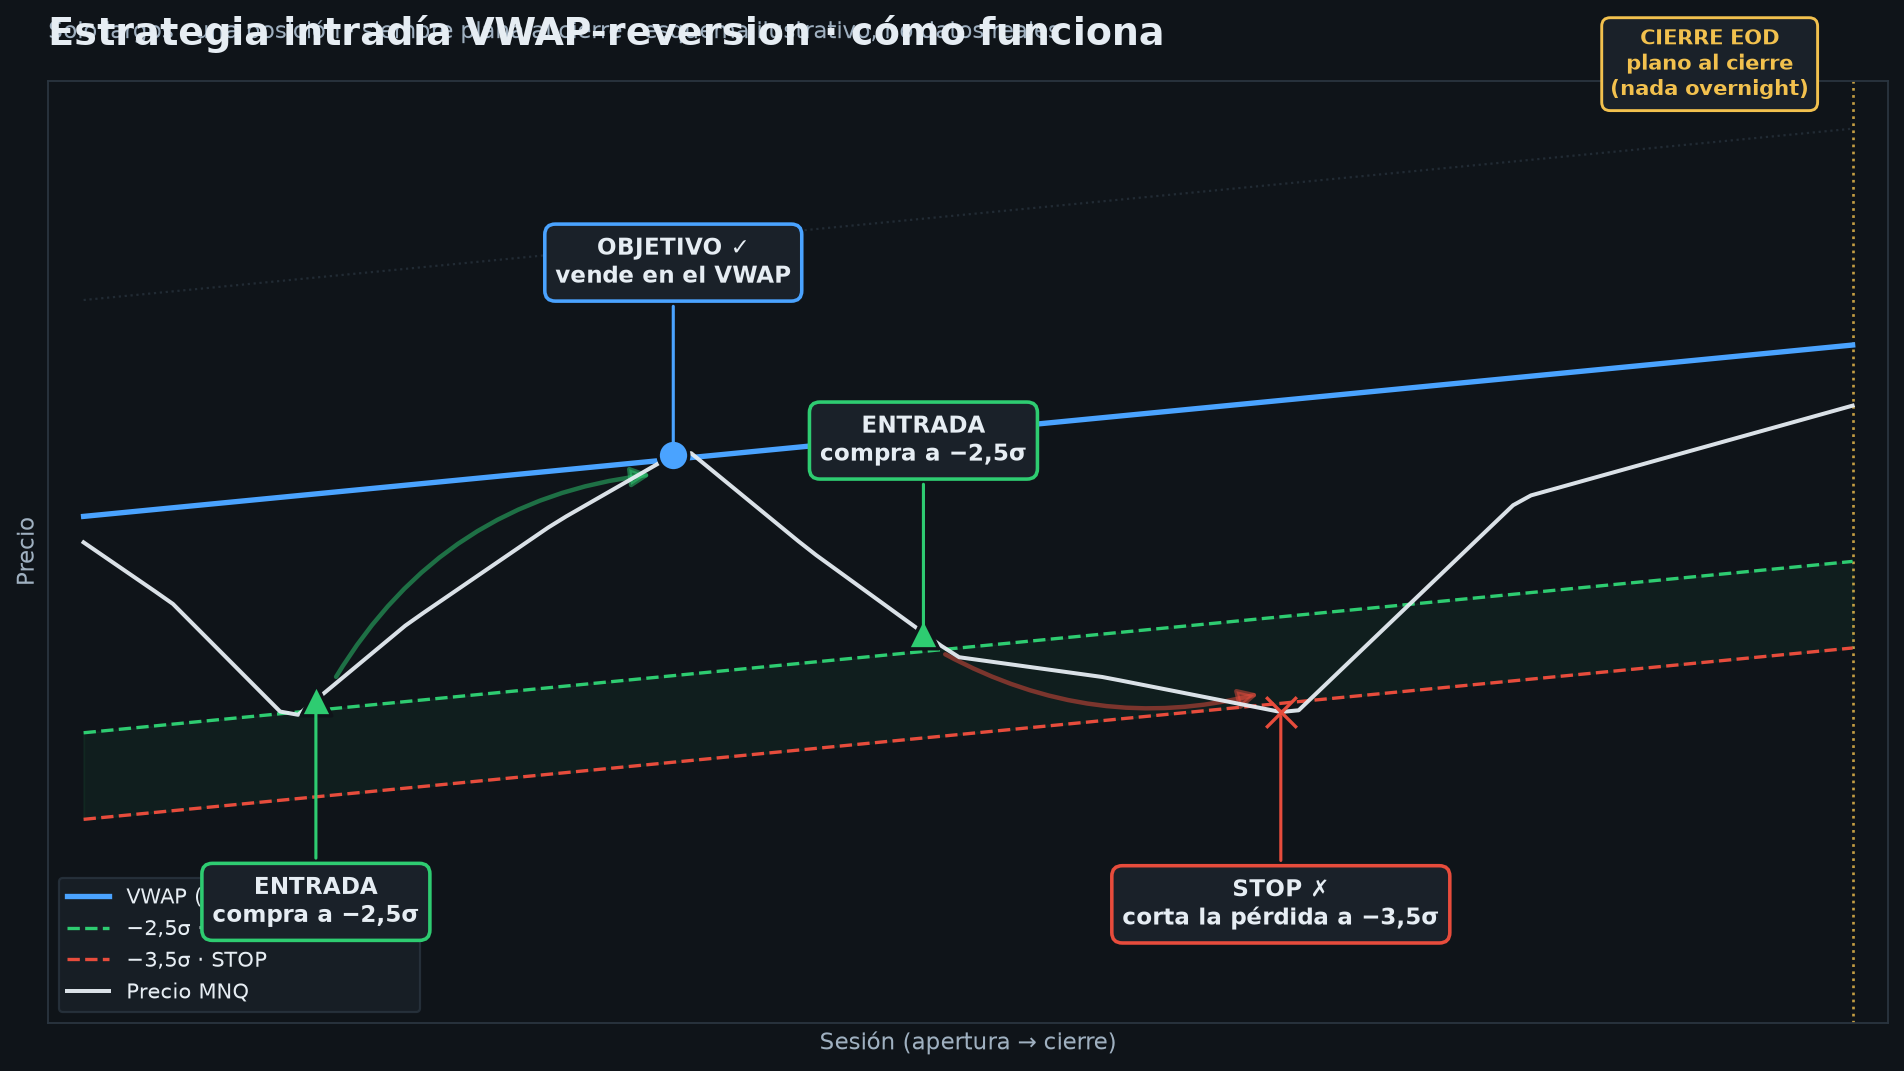
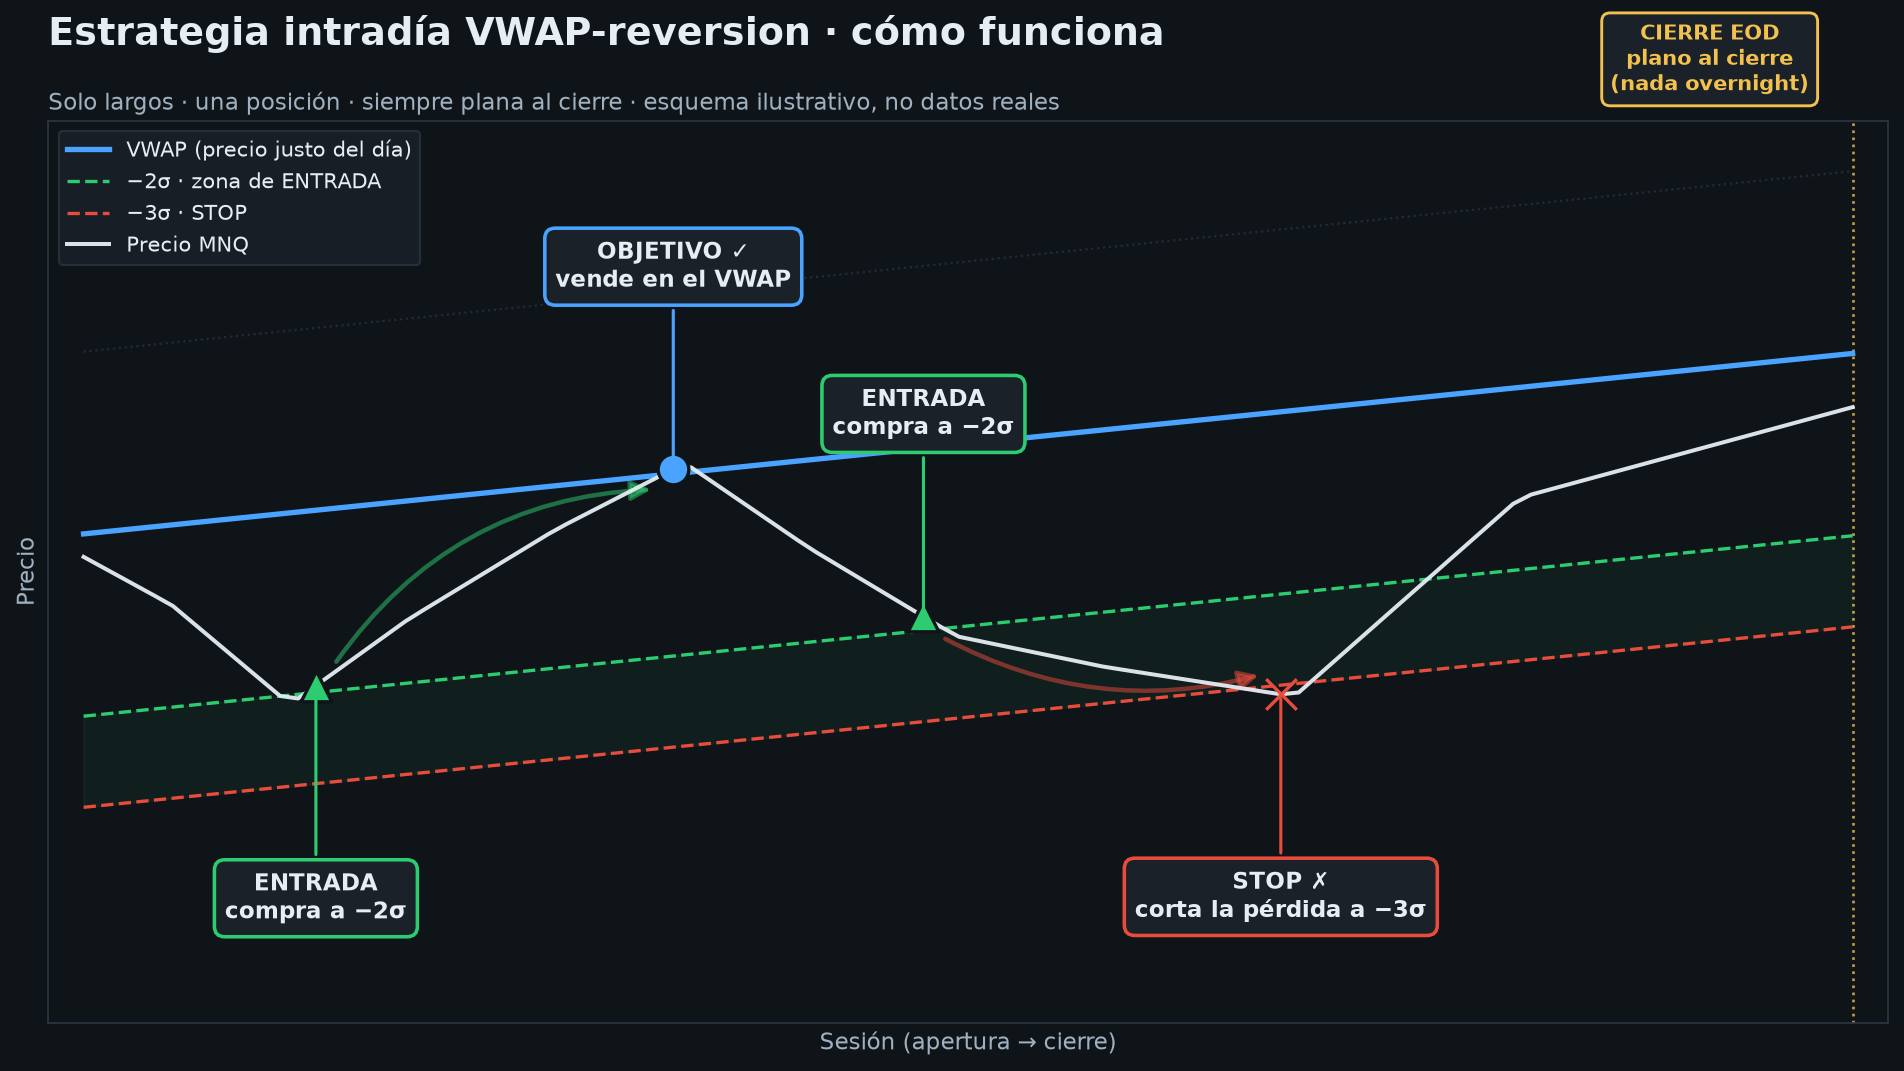
Cambiar entrada de -2,5 a -2,0 sigma: la anterior estaba dominada
La config que estaba en marcha se eligio por expectancy en R, criterio con
un defecto logico: R normaliza cada operacion por su riesgo, asi que en un
ano de vol alta los perdedores arriesgan mas dolares que los ganadores y un
R medio positivo puede perder dinero. Paso: 2022 perdio 1.028$ con R +0,054.

Al reevaluar la misma rejilla puntuando en dinero, -2,5 sigma resulta la
PEOR de las tres, no un compromiso riesgo/beneficio: menos beneficio Y mas
drawdown.

  -2,5 sigma: +12.173$  DD -41,98R  6/7 anos  PF 1,15  1.911 ops
  -2,0 sigma: +25.816$  DD -25,31R  7/7 anos  PF 1,23  2.908 ops

-2,0 gana en los 7 anos OOS por separado, y con ejecucion mala (4 ticks)
sigue batiendo a -2,5 con ejecucion buena. Efecto practico: el capital
minimo baja de ~14.000$ a ~8.000$.

No se eligio -1,5 sigma pese a dar mas (+34.710$): esta en el borde del
rango probado, su DD en R es peor (-31,78) y lo premia un criterio que
favorece operar mas.

Ademas:
- Paper-trading reiniciado a 0 ops. Las 23 ops de -2,5 pasan a historico:
  no son evidencia de fill-realism para la config nueva. Se conserva lo que
  si demostraron (infraestructura, stops a -1R) y lo que no.
- Diagrama regenerado; ahora lee los niveles de config_vwap.json en vez de
  tenerlos hardcodeados, y arreglada la superposicion titulo/subtitulo y la
  leyenda tapada.
- Suelo de capital y avisos honestos recalculados.

diff --git a/resumen_estrategia_vwap.html b/resumen_estrategia_vwap.html
@@ -47,7 +47,7 @@
 <body>
 <div class="wrap">
 
-  <span class="pill">PAPER-TRADING EN MARCHA · sin dinero real</span>
+  <span class="pill">PAPER-TRADING REINICIADO EL 26-JUL-2026 · sin dinero real</span>
   <h1>Estrategia de trading intradía</h1>
   <p class="sub">VWAP-reversion sobre micro-futuro del Nasdaq (MNQ)</p>
 
@@ -56,13 +56,13 @@
     <p>Reversión a la media <b>intradía</b>: cuando el precio se aleja demasiado de su valor
     "justo" del día (el <b>VWAP</b>, precio medio ponderado por volumen), apuesta a que volverá.
     Solo posiciones largas, una a la vez, y <b>siempre plana al cierre</b> (intradía puro).</p>
-    <div class="rule"><b>Entrada</b><span>el precio cae a <b>−2,5σ</b> por debajo del VWAP → compra</span></div>
+    <div class="rule"><b>Entrada</b><span>el precio cae a <b>−2,0σ</b> por debajo del VWAP → compra</span></div>
     <div class="rule"><b>Objetivo</b><span>el precio <b>vuelve al VWAP</b> → vende con beneficio</span></div>
-    <div class="rule"><b>Stop</b><span>baja <b>1σ más</b> (a −3,5σ) → corta la pérdida</span></div>
+    <div class="rule"><b>Stop</b><span>baja <b>1σ más</b> (a −3,0σ) → corta la pérdida</span></div>
     <div class="rule"><b>Cierre EOD</b><span>al final de la sesión se liquida sí o sí (nada overnight)</span></div>
     <p class="muted" style="margin:.6rem 0 0; font-size:.86rem">σ = volatilidad del día medida sobre la marcha.</p>
     <figure style="margin:1.1rem 0 0">
-      <img src="diagrama_vwap.png" alt="Diagrama de la estrategia VWAP-reversion: entrada a −2,5σ, objetivo en el VWAP, stop a −3,5σ y cierre EOD"
+      <img src="diagrama_vwap.png" alt="Diagrama de la estrategia VWAP-reversion: entrada a −2,0σ, objetivo en el VWAP, stop a −3,0σ y cierre EOD"
            style="width:100%; height:auto; display:block; border:1px solid var(--line); border-radius:10px">
       <figcaption class="muted" style="margin:.5rem 0 0; font-size:.82rem; text-align:center">
         Esquema ilustrativo (no datos reales): una operación ganadora (vuelve al VWAP) y una perdedora (salta el stop).</figcaption>
@@ -82,80 +82,90 @@
     <p>16 años de datos reales (Databento, 2010–2026). Método honesto: configuración elegida
     <b>solo con 2010–2019</b> y medida en <b>2020–2026 intactos</b>.</p>
     <div class="grid2">
-      <div class="kpi"><div class="n ok">6/7</div><div class="l">años out-of-sample positivos <span style="font-size:.9em">en dinero</span></div></div>
-      <div class="kpi"><div class="n">+0,184R</div><div class="l">expectancy por operación</div></div>
-      <div class="kpi"><div class="n">1,15</div><div class="l">profit factor</div></div>
-      <div class="kpi"><div class="n">1,27</div><div class="l">Sharpe diario <span style="font-size:.9em">(comisión real 0,52&nbsp;$/lado)</span></div></div>
+      <div class="kpi"><div class="n ok">7/7</div><div class="l">años out-of-sample positivos <span style="font-size:.9em">en dinero</span></div></div>
+      <div class="kpi"><div class="n">+0,216R</div><div class="l">expectancy por operación</div></div>
+      <div class="kpi"><div class="n">1,23</div><div class="l">profit factor</div></div>
+      <div class="kpi"><div class="n">2,08</div><div class="l">Sharpe diario <span style="font-size:.9em">(comisión real 0,52&nbsp;$/lado)</span></div></div>
     </div>
-    <p class="muted" style="margin:.7rem 0 0; font-size:.88rem">1.911 operaciones out-of-sample · 35% de aciertos · stress-test: aguanta hasta 4 ticks de slippage + comisiones altas sin perder el edge.</p>
+    <p class="muted" style="margin:.7rem 0 0; font-size:.88rem">2.908 operaciones out-of-sample · 38% de aciertos · +25.816&nbsp;$ con 1 MNQ · stress-test: rentable en los 15 puntos de la rejilla de costes (0-4 ticks de slippage × comisión 0,35/0,52/0,75&nbsp;$); incluso a 4 ticks mantiene PF 1,14.</p>
+    <p class="muted" style="margin:.4rem 0 0; font-size:.88rem">El in-sample (+0,168R) es <b>peor</b> que el out-of-sample (+0,216R), que es la señal que uno quiere ver: no hay indicio de sobreajuste.</p>
 
     <p style="margin:1rem 0 .3rem"><b>Año a año, con 1 MNQ:</b></p>
     <table>
-      <tr><th>Año</th><th>Expectancy</th><th>P&amp;L</th><th>Ops</th></tr>
-      <tr><td>2020</td><td>+0,089 R</td><td class="ok">+1.392 $</td><td>285</td></tr>
-      <tr><td>2021</td><td>+0,194 R</td><td class="ok">+2.484 $</td><td>290</td></tr>
-      <tr><td>2022</td><td>+0,054 R</td><td class="bad">−1.028 $</td><td>359</td></tr>
-      <tr><td>2023</td><td>+0,342 R</td><td class="ok">+3.042 $</td><td>260</td></tr>
-      <tr><td>2024</td><td>+0,163 R</td><td class="ok">+1.460 $</td><td>315</td></tr>
-      <tr><td>2025</td><td>+0,291 R</td><td class="ok">+2.924 $</td><td>289</td></tr>
-      <tr><td>2026</td><td>+0,224 R</td><td class="ok">+1.899 $</td><td>113</td></tr>
+      <tr><th>Año</th><th>P&amp;L</th><th>Ops</th></tr>
+      <tr><td>2020</td><td class="ok">+4.694 $</td><td>463</td></tr>
+      <tr><td>2021</td><td class="ok">+2.543 $</td><td>434</td></tr>
+      <tr><td>2022</td><td class="ok">+310 $</td><td>502</td></tr>
+      <tr><td>2023</td><td class="ok">+4.070 $</td><td>429</td></tr>
+      <tr><td>2024</td><td class="ok">+4.908 $</td><td>468</td></tr>
+      <tr><td>2025</td><td class="ok">+7.387 $</td><td>442</td></tr>
+      <tr><td>2026</td><td class="ok">+1.905 $</td><td>170</td></tr>
     </table>
 
     <div class="warn" style="margin-top:.9rem">
-      <b>Corrección importante (26-jul-2026):</b> antes se publicaba aquí "<b>7/7 años positivos</b>".
-      Es cierto <b>en expectancy R</b> —los siete años dan R medio positivo— pero <b>no en dinero</b>:
-      <b>2022 perdió 1.028&nbsp;$</b> con 1 MNQ pese a un R medio de +0,054. Motivo: R normaliza cada
-      operación por su propio riesgo, y en un año de volatilidad alta los perdedores arriesgan más
-      dólares que los ganadores, así que un R medio positivo puede perder dinero. En dinero son
-      <b>6/7</b>. El script de validación puntuaba por expectancy R y de ahí salió el titular.
+      <b>Se cambió la configuración el 26-jul-2026, y el motivo importa.</b>
+      Hasta esa fecha se entraba a <b>−2,5σ</b>, una configuración elegida por su <b>expectancy en R</b>
+      (beneficio medio dividido por el riesgo de cada operación). Ese criterio tiene un defecto lógico:
+      R normaliza cada operación por su propio riesgo, así que en un año de volatilidad alta los
+      perdedores arriesgan más dólares que los ganadores y <b>un R medio positivo puede perder dinero</b>.
+      Pasó de verdad: con −2,5σ, <b>2022 perdió 1.028&nbsp;$</b> pese a un R medio de +0,054.
+      <ul style="margin:.6rem 0 0">
+        <li>Al reevaluar la misma rejilla <b>puntuando en dinero</b>, la configuración que estaba en
+        marcha resultó ser la <b>peor de las tres</b> — no un compromiso riesgo/beneficio, sino dominada:
+        <b>menos beneficio y más drawdown</b>.</li>
+        <li>−2,5σ daba +12.173&nbsp;$ con un drawdown de −41,98&nbsp;R y 6/7 años positivos.
+        <b>−2,0σ da +25.816&nbsp;$ con −25,31&nbsp;R y 7/7</b>, y gana en los siete años por separado.</li>
+        <li>Efecto práctico: el <b>capital mínimo baja de ~14.000&nbsp;$ a ~8.000&nbsp;$</b>, porque el
+        drawdown esperado es mucho menor.</li>
+      </ul>
     </div>
-    <p class="muted" style="margin:.7rem 0 0; font-size:.82rem">Las cifras de esta sección se
-      <b>reverificaron el 25-jul-2026</b> reejecutando la validación completa (antes se publicaba
-      +0,194R / PF&nbsp;1,16, error de transcripción) y el desglose anual en dinero se añadió el
-      <b>26-jul-2026</b>. El edge sigue siendo real pero es fino: <b>σ&nbsp;=&nbsp;1,68R</b> por operación
-      sobre un edge de 0,184R, así que harían falta <b>~323 operaciones</b> para distinguirlo de cero
-      al 95&nbsp;% de confianza.</p>
+    <p class="muted" style="margin:.7rem 0 0; font-size:.82rem">
+      <b>No se eligió −1,5σ</b>, que daba aún más dinero (+34.710&nbsp;$): está en el <b>borde</b> del
+      rango probado, así que no se sabe si es el óptimo o solo el extremo, su drawdown en R es peor
+      (−31,78) y lo premia un criterio que favorece estructuralmente operar más. Elegirla por su
+      resultado fuera de muestra habría sido <i>data snooping</i>.
+      El edge sigue siendo real pero fino: <b>σ&nbsp;=&nbsp;1,62R</b> por operación sobre un edge de
+      0,216R, así que harían falta <b>~215 operaciones</b> para distinguirlo de cero al 95&nbsp;% de
+      confianza. Cifras reverificadas reejecutando la validación completa.</p>
   </div>
 
   <div class="card">
-    <h2><span class="ico">🧪</span>Resultados en vivo (papel)</h2>
-    <p class="muted" style="margin:.1rem 0 .8rem; font-size:.9rem">
-      Primeras <b>6 semanas</b> de paper-trading · 15-jun → 24-jul&nbsp;2026 · 30 sesiones de mercado ·
-      dinero simulado, 1 contrato MNQ. <span class="muted">Datos a 25-jul-2026.</span></p>
-    <div class="grid2">
-      <div class="kpi"><div class="n ok">+1.766&nbsp;$</div><div class="l">P&amp;L acumulado (1 MNQ)</div></div>
-      <div class="kpi"><div class="n">23</div><div class="l">operaciones en 11 sesiones</div></div>
-      <div class="kpi"><div class="n">9/11</div><div class="l">sesiones con operaciones en verde</div></div>
-      <div class="kpi"><div class="n">−390&nbsp;$</div><div class="l">peor bajón hasta ahora</div></div>
+    <h2><span class="ico">🧪</span>Paper-trading: contador a cero</h2>
+    <div class="warn" style="margin:.2rem 0 1rem">
+      <b>El cambio de configuración del 26-jul-2026 reinicia el paper-trading.</b>
+      Las <b>23 operaciones</b> acumuladas entre el 15-jun y el 24-jul se hicieron con la
+      configuración antigua (−2,5σ) y <b>no son evidencia</b> de que la nueva se ejecute bien en vivo.
+      Quedan archivadas como histórico, pero el contador vuelve a <b>0 operaciones</b>.
     </div>
 
-    <table style="margin-top:1rem">
-      <tr><th>Métrica</th><th>Papel (23 ops)</th><th>Backtest (1.911 ops)</th></tr>
-      <tr><td>Win rate</td><td class="ok">47,8 %</td><td>35,0 %</td></tr>
-      <tr><td>Expectancy por operación</td><td class="ok">+0,61 R</td><td>+0,184 R</td></tr>
-      <tr><td>Profit factor</td><td class="ok">2,04</td><td>1,15</td></tr>
-      <tr><td>Drawdown máximo</td><td>−390 $</td><td>−4.507 $ <span class="muted">(−41,98 R)</span></td></tr>
-    </table>
-
-    <p style="margin:.9rem 0 .3rem"><b>Qué funciona ya:</b></p>
+    <p style="margin:.2rem 0 .3rem"><b>Qué dejó demostrado la fase anterior</b> —esto sí se conserva,
+      porque es sobre la <i>fontanería</i>, no sobre la configuración:</p>
     <ul style="margin-top:.2rem">
-      <li>La <b>infraestructura</b>: 30 de 30 días operativos ejecutados, 85 comprobaciones diarias. Solo se perdió una sesión entera (18-jun, con TWS cerrado).</li>
-      <li>Los <b>stops</b> se cierran donde deben: los 12 stops han salido todos entre −1,00R y −1,01R, sin pérdidas fantasma.</li>
-      <li>Las <b>salidas por objetivo</b> (vuelta al VWAP) aportan +2.548&nbsp;$; los cierres de fin de sesión, +911&nbsp;$.</li>
+      <li>La <b>infraestructura funciona</b>: 30 de 30 días operativos ejecutados, ~85 comprobaciones
+      diarias. Solo se perdió una sesión entera (18-jun, con TWS cerrado).</li>
+      <li>Los <b>stops se cierran donde deben</b>: los 12 stops salieron todos entre −1,00R y −1,01R,
+      sin pérdidas fantasma. Ese era el punto crítico y quedó resuelto.</li>
+      <li>Se vio el <b>patrón de riesgo real</b>: el 15-jul encadenó <b>3 stops seguidos</b> antes de
+      acertar el cuarto. En un día de caída sostenida, una estrategia de reversión solo-largos come
+      stops en cadena.</li>
     </ul>
 
-    <div class="warn" style="margin-top:1rem">
-      <b>Va por encima de lo esperado, y eso todavía no significa nada.</b>
-      <ul style="margin:.5rem 0 0">
-        <li><b>23 operaciones no validan nada.</b> El backtest necesitó 1.911 para afirmar algo. Ir mejor que la expectativa con esta muestra es suerte, no confirmación.</li>
-        <li><b>Una sola operación aporta el 37 % del beneficio</b> (+655&nbsp;$ el 17-jun). Sin ella quedan +1.111&nbsp;$ y la expectancy cae de +0,61R a <b>+0,34R</b>.</li>
-        <li><b>El mal tramo aún no ha llegado:</b> −390&nbsp;$ de bajón frente a los −4.507&nbsp;$ que da el histórico —y frente a los ~−6.300&nbsp;$ que costaría ese mismo bajón al riesgo por operación de hoy (ver abajo). El sistema no ha sido puesto a prueba de verdad.</li>
-        <li><b>Sí se ha visto el patrón de riesgo:</b> el 15-jul encadenó <b>3 stops seguidos</b> antes de acertar el cuarto. En un día de caída sostenida, una estrategia de reversión solo-largos come stops en cadena.</li>
-      </ul>
-    </div>
-    <p class="muted" style="margin:.7rem 0 0; font-size:.86rem">
-      Conclusión: la mecánica funciona y los números no contradicen el backtest, pero falta muestra.
-      El plan sigue igual — dejarlo correr hasta 30-50 operaciones antes de plantearse fondear.</p>
+    <p style="margin:.9rem 0 .3rem"><b>Y qué no demostró:</b></p>
+    <ul style="margin-top:.2rem">
+      <li>El resultado (+1.766&nbsp;$, +0,61R en 23 ops) iba <b>muy por encima</b> de la expectativa del
+      backtest. Con esa muestra eso es <b>suerte, no confirmación</b>: una sola operación aportaba el
+      37&nbsp;% del beneficio.</li>
+      <li>El <b>mal tramo no llegó</b>: −390&nbsp;$ de bajón frente a los miles que da el histórico.
+      El sistema nunca fue puesto a prueba de verdad.</li>
+    </ul>
+
+    <p class="muted" style="margin:.9rem 0 0; font-size:.86rem">
+      Como comprobación, se replicó la configuración nueva sobre esas mismas 28 sesiones con velas
+      descargadas a posteriori: da +1.569&nbsp;$ frente a los +1.484&nbsp;$ de la antigua sobre el mismo
+      tramo. Pero la diferencia entre ambas <b>no es estadísticamente distinguible</b> con tan pocas
+      operaciones (t&nbsp;=&nbsp;0,48), y sobre todo <b>eso es un backtest, no paper-trading</b>: no se
+      envió ninguna orden, así que no dice nada sobre si las órdenes se llenan en vivo. Por eso el
+      contador empieza de cero y no se hereda nada.</p>
   </div>
 
   <div class="card">
@@ -200,11 +210,12 @@
     <h2><span class="ico">🗺</span>En qué fase estamos</h2>
     <table>
       <tr><th>Fase</th><th>Estado</th></tr>
-      <tr><td>Validar el edge histórico (6/7 años en dinero)</td><td class="ok">✅ hecho</td></tr>
+      <tr><td>Validar el edge histórico (7/7 años en dinero)</td><td class="ok">✅ hecho</td></tr>
       <tr><td>Robustez a costes / slippage</td><td class="ok">✅ hecho</td></tr>
-      <tr><td>Paper-trading en vivo</td><td class="wait">🔄 en marcha · 6 semanas, 23 ops</td></tr>
+      <tr><td>Infraestructura y fills sin pérdidas fantasma</td><td class="ok">✅ hecho <span class="muted">(fase −2,5σ)</span></td></tr>
+      <tr><td>Paper-trading en vivo con la config nueva</td><td class="wait">🔄 desde cero · 0 ops</td></tr>
       <tr><td>Confirmar fill-realism (¿se llenan las órdenes?)</td><td class="wait">⏳ solo el papel lo dirá</td></tr>
-      <tr><td>Fondear cuenta y pasar a real (<b>12–15k$</b>, revisado al alza)</td><td class="wait">⏳ pendiente</td></tr>
+      <tr><td>Fondear cuenta y pasar a real (<b>~8.000&nbsp;$</b>)</td><td class="wait">⏳ pendiente</td></tr>
       <tr><td>Auto-ejecución vía IBKR (paper 7497 primero)</td><td class="wait">⏳ fase final</td></tr>
     </table>
   </div>
@@ -213,16 +224,16 @@
     <h2><span class="ico">⚠</span>Avisos honestos</h2>
     <div class="warn">
       <ul style="margin:0">
-        <li><b>Edge fino:</b> profit factor 1,15. Real pero modesto — no te hará rico rápido.</li>
-        <li><b>Win rate ~35%:</b> aciertas 1 de cada 3 veces; ganas porque los aciertos son mayores que los fallos. Duro psicológicamente (por eso es automático).</li>
-        <li><b>Drawdowns, y el suelo de capital recalculado:</b> con 1 MNQ el peor bajón histórico fue
-          <b>−4.507&nbsp;$</b>, que en unidades de riesgo son <b>−41,98&nbsp;R</b>. Pero el riesgo por
-          operación en dólares se ha <b>duplicado</b> con el Nasdaq en 29.000: 50–74&nbsp;$/op en
-          2021-2024 del backtest, 117&nbsp;$ en 2026 y <b>151&nbsp;$ en el paper actual</b>. Ese mismo
-          bajón de −42&nbsp;R al riesgo de hoy son <b>≈ −6.300&nbsp;$</b>. Sobre una cuenta de 8.000&nbsp;$
-          eso es un −79&nbsp;%, así que <b>el suelo realista ya no son 8.000&nbsp;$ sino 12–15k$</b> — y no
-          se puede bajar el tamaño, porque 1&nbsp;MNQ ya es el mínimo negociable.</li>
-        <li><b>Lo que el backtest no sabe:</b> si tus órdenes se llenan de verdad en vivo. Eso es lo que el paper-trading mide ahora.</li>
+        <li><b>Edge fino:</b> profit factor 1,23. Real pero modesto — no te hará rico rápido.</li>
+        <li><b>Win rate ~38%:</b> fallas más veces de las que aciertas; ganas porque los aciertos son mayores que los fallos. Duro psicológicamente (por eso es automático).</li>
+        <li><b>Drawdowns y suelo de capital:</b> con 1 MNQ el peor bajón histórico fue de
+          <b>−25,31&nbsp;R</b> (−3.058&nbsp;$ a los precios del periodo medido). La medida en <b>R</b> es la
+          que importa, porque el riesgo por operación en dólares <b>se ha duplicado</b> con el Nasdaq en
+          29.000: de 50–74&nbsp;$/op en 2021-2024 a ~110&nbsp;$/op en 2026. Ese mismo bajón al riesgo de hoy
+          son <b>≈ −2.800&nbsp;$</b>, y de ahí sale el suelo de <b>~8.000&nbsp;$</b> (para que el peor bajón
+          sea ~1/3 de la cuenta). No se puede bajar el tamaño: 1&nbsp;MNQ ya es el mínimo negociable.</li>
+        <li><b>Lo que el backtest no sabe:</b> si tus órdenes se llenan de verdad en vivo. Eso es lo que el paper-trading tiene que medir, y con la configuración nueva <b>está por medir</b>.</li>
+        <li><b>Se ha cambiado de configuración una vez.</b> Cada cambio reinicia la validación en vivo y consume una mirada más a los mismos datos históricos. No es gratis, y no debería repetirse sin un motivo tan claro como el de esta vez.</li>
       </ul>
     </div>
   </div>
@@ -233,7 +244,7 @@
     TWS abierto y observar, sin arriesgar dinero, hasta que el papel confirme que funciona en vivo.
   </div>
 
-  <footer>Generado el 2026-06-13 · actualizado 2026-07-26 (desglose anual en dinero: 6/7 años, no 7/7 · suelo de capital revisado a 12–15k$) · Proyecto Finanzas Personales · uso informativo, no es asesoramiento financiero</footer>
+  <footer>Generado el 2026-06-13 · actualizado 2026-07-26: entrada cambiada de −2,5σ a <b>−2,0σ</b> (la anterior estaba dominada) · 7/7 años positivos en dinero · suelo de capital ~8.000&nbsp;$ · paper-trading reiniciado · Proyecto Finanzas Personales · uso informativo, no es asesoramiento financiero</footer>
 </div>
 </body>
 </html>
